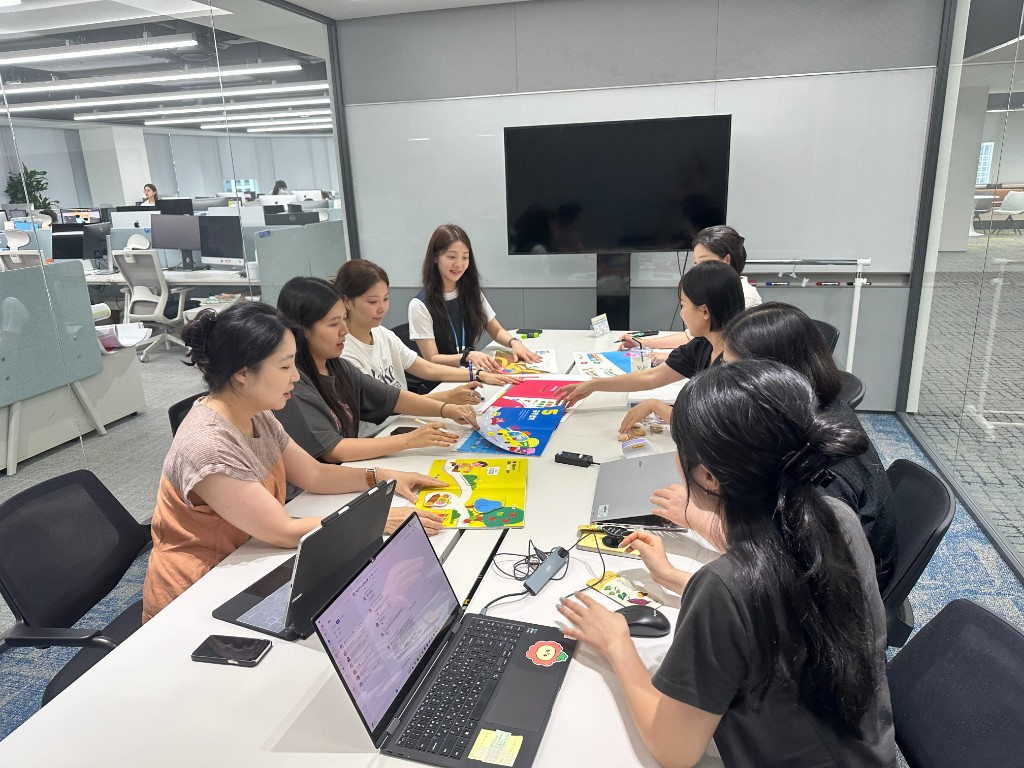
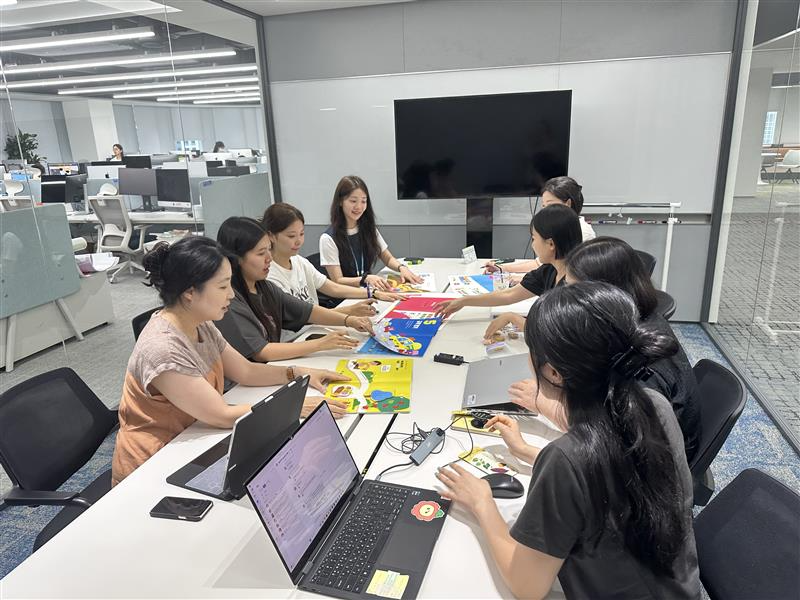
ㅇㅇ

diff --git a/index.html b/index.html
@@ -1487,209 +1487,6 @@
         <p>이번 인터뷰를 함께해주신 유지인 CP님, 정세연 CP님, 그리고 수풀길 팀 모두에게 진심으로 감사드립니다.</p>
     </footer>
 </article>
-
-
-    </div>
-
-    <div class="interview-article-lead interview-article-lead--speakers">
-        <p><span class="interview-qa-speaker">유지인 CP</span> (수풀길 리더, 크리에이티브2 Cell)</p>
-        <p><span class="interview-qa-speaker">정세연 CP</span> (수풀길 PM, 크리에이티브2 Cell)</p>
-    </div>
-
-    <section class="interview-article-section">
-        <h3 class="interview-article-section-title">1. 수풀길 팀의 시작</h3>
-
-        <div class="interview-qa">
-            <p class="interview-qa-q">Q. ‘수풀길’이라는 이름, 그리고 그 안에 담긴 방향성과 기획 의도가 궁금합니다. : )</p>
-            <p class="interview-qa-a"><span class="interview-qa-speaker">지인 CP</span> ‘수를 풀다’라는 의미에서 시작했어요. 동시에 ‘수를 탐험하는 길’이라는 뜻도 담고 있습니다. 기존 수학 모형 교과서를 만드는 게 목적이었는데, 어떻게 하면 딱딱한 수학이라는 과목이 좀 더 흥미로워질 수 있을까를 많이 고민했습니다.</p>
-            <p class="interview-qa-a"><span class="interview-qa-speaker">세연 CP</span> 대상이 초등 1, 2학년이다 보니, 단순한 풀이형 수학이 아니라 놀이 학습으로 다가가고 싶었어요. 그래서 전체를 하나의 동화처럼 구성했어요. 사실 요즘 검정교과서도 스토리텔링 도입은 많이 하지만, 대부분 도입부에서 끝나요. 저희는 한 권 전체가 스토리로 이어지는 구조를 시도했습니다. ☺️</p>
-        </div>
-
-        <div class="interview-qa">
-            <p class="interview-qa-q">Q. 수학 교과서를 동화처럼 구성한다니 정말 인상 깊습니다~! 이런 기획은 어떻게 시작하게 되셨나요?</p>
-            <p class="interview-qa-a"><span class="interview-qa-speaker">세연 CP</span> 처음에는 ‘모형 교과서를 만들라’라는 미션을 받았는데... 이미 모형으로 개발되었던 수학이라니, 부담되더라고요. ㅎㅎ 그래서 처음 통 진행할 때는 ‘그냥 워크북으로 가자’고 했었어요. 그런데 그걸 조금 더 확장하고 싶다는 생각이 들었고, 그렇게 동화 콘셉트가 나오게 됐어요. QR코드를 연결해서 활동이 이어질 수 있도록 구성하기도 했습니다.</p>
-        </div>
-    </section>
-
-    <section class="interview-article-section">
-        <h3 class="interview-article-section-title">2. 어떻게 운영되었나요?</h3>
-
-        <div class="interview-qa">
-            <p class="interview-qa-q">Q. 스터디 준비는 언제부터 시작하셨고, 어떤 계기로, 본격적으로 진행하게 되셨나요?</p>
-            <p class="interview-qa-a"><span class="interview-qa-speaker">지인 CP</span> 첫 학습일지 쓰기 전부터 사실 준비는 하고 있었어요. 본격적으로 시작한 건 공지가 뜨고 나서였어요. 이왕 하는 거면 지원금도 받으면서 제대로보면 좋으니까요. ㅎㅎ</p>
-        </div>
-
-        <div class="interview-qa">
-            <p class="interview-qa-q">Q. 운영하면서 어떤 방식과 역할 분담에 중점을 두셨나요?</p>
-            <p class="interview-qa-a"><span class="interview-qa-speaker">지인 CP</span> 매 통 전에 오늘 뭘 할지, 어떤 업무를 해야 할지 미리 점검하고 세연 시피님이랑 함께 통에 들어갔어요. 기존에는 개발에서 원고를 정리해서 CC(크리에이티브디자인연구소)에 넘기면, CC에서 디자인을 진행하는 방식이었는데, 이번엔 그 역할 구도를 바꿔봤어요. 저희가 먼저 기획하고, 그 기획에 맞는 원고를 고른 뒤 디자인까지 했죠. 그걸 다시 개발팀이 역으로 검수해 주는 구조로요. 다행히 중간 결과물이 괜찮다는 평가를 받아서, 기분 좋았어요. 😀</p>
-            <p class="interview-qa-a"><span class="interview-qa-speaker">세연 CP</span> 저는 전체 운영을 맡았고, 프로젝트 리더의 역할을 하고 있습니다. CC에서는 비바코드를 매번 하다 보니, 늘 ‘이번엔 뭐가 달라야 하지?’라는 부담이 있어요. 연구물도 계속 새로움을 추구하는데, 거기서 또 차별화된 뭔가를 만들어내야 하니까요. 그래서 이번엔 동화 형식으로 제안했지만... 쉽지는 않았어요. 대상 아동이 초등 1~2학년이라 학습 배경이 거의 없거든요. 개발팀도 처음엔 막막해했어요. 이런 형태로 수업이 흘러간 전례가 없어서, 원고를 어떻게 줘야 할지도 모르겠고. 그래서 디자이너들이랑 수없이 검토 통을 했죠. 이번엔 진짜 역대급으로 개발 셀과 소통 많이 했어요. 그 덕분에 디자인이랑 원고 기획까지 CC에서 이례적으로 주관하게 됐고, 영상까지 연계하게 됐어요. 저희 입장에서는 정말 뿌듯한 프로젝트였어요. : )</p>
-        </div>
-
-        <p><em>수풀길 팀의 스터디는 계속됩니다!</em></p>
-    </section>
-
-    <section class="interview-article-section">
-        <h3 class="interview-article-section-title">3. 비바코드를 하며 좋았던 점은?</h3>
-
-        <div class="interview-qa">
-            <p class="interview-qa-q">Q. 말씀을 들으니, 이번 프로젝트가 팀에게도 조직에도 정말 의미 있는 경험이었겠다는 생각이 들어요. 그런 가운데 "아, 이래서 비바코드를 하는구나!" 싶은 순간도 있으셨을까요?</p>
-            <p class="interview-qa-a"><span class="interview-qa-speaker">지인 CP</span> 환경적인 지원이 정말 좋았어요. 책도 구매해서 참고할 수 있었고, AI 프로그램 구독료나 툴 같은 것도 무엇보다 기존에 없던 프로세스를 저희 손으로 새롭게 시작해본 게 큰 경험이었어요. 틀을 깨고, 디자이너가 주도적으로 기획부터 운영까지 해볼 수 있었던 것, 그게 정말 뿌듯했죠. 그리고… 학점 지급도 아주 큰 동기부여였습니다.</p>
-            <p class="interview-qa-a"><span class="interview-qa-speaker">세연 CP</span> 저도 지인 시피님이 말씀하신 거랑 정말 공감해요. ㅎㅎ 우리가 교육회사다 보니, 실무 디자이너로서 할 수 있는 일에 어느 정도 한계가 있었거든요. 특히 교과서는 교육과정에 맞춘 원고가 우선이다 보니, 디자인에서 창의성을 크게 발휘하기 어려운 부분도 있었고요. 근데 이번 비바코드는 좀 달랐어요. 개발이 중심이 아닌, CC에서 기획의 방향을 먼저 제안하고 그걸 기반으로 디자인을 풀어나갈 수 있었던 경험 자체가 새로웠고, 그게 너무 좋았어요. 또 다른 CC 팀들이 만든 결과물들을 보면서도 진심으로 감탄했어요. ‘우리 모두 다 같이 성장하고 있구나…’ 느껴졌어요.</p>
-        </div>
-    </section>
-
-    <section class="interview-article-section">
-        <h3 class="interview-article-section-title">4. 무엇을 배웠나요?</h3>
-
-        <div class="interview-qa">
-            <p class="interview-qa-q">Q. 서로 다른 역할과 시선에서 하나의 결과물을 만들어냈다는 점이 정말 인상 깊네요. 이번 활동을 통해 팀이나 개인에게 어떤 변화가 있었는지도 궁금해요!</p>
-            <p class="interview-qa-a"><span class="interview-qa-speaker">지인 CP</span> 셀을 운영하는 입장에서 팀원들을 지켜보면, 정규 업무를 할 때와 이번 모형 교과서를 개발할 때 모습이 조금 달랐던 것 같아요. 더 능동적으로 의견을 내고, 무엇보다 즐겁게 일하는 느낌이랄까요. 자율적인 분위기 속에서 각자 가진 아이디어를 자연스럽게 나누고, 서로 존중하며 몰입하는 모습이 참 보기 좋았어요. 조직문화가 수평적인 덕분에 가능했던 흐름이라고 생각해요.</p>
-            <p class="interview-qa-a"><span class="interview-qa-speaker">세연 CP</span> 맞아요. 이번이 특히 더 그랬던 것 같아요. 크리에이티브한 아이디어를 계속 내야 하는 프로젝트이다 보니 편하게 대화 나누면서 아이디어가 통통 튀어나왔던 순간들이 많았어요. 특히 저연차 CP님들이 가진 신선하고 유쾌한 발상들이 정말 자극이 많이 되더라고요. 기존의 틀에서 벗어나 다양한 업무를 경험할 수 있었던 것도 큰 변화였고요.</p>
-            <p class="interview-qa-a"><span class="interview-qa-speaker">지인 CP</span> 물론 약간의 부담감도 있었어요. 이번에는 저희가 주도적으로 전체를 설계하고 기획한 구조이다 보니, 함께 협업해 주신 개발 시피님들께 다소 부담이 갔을 수도 있을 것 같아요.</p>
-            <p class="interview-qa-a"><span class="interview-qa-speaker">세연 CP</span> 실제로 개발 시피님들이 정말 고생 많으셨어요. 디자이너가 원고 기획을 하는 구조는 익숙하지 않다 보니, 교육적으로 이 흐름이 맞는지에 대해 계속 피드백을 주셨어요. 그래도 그런 대화 덕분에 더 많이 배울 수 있었던 것 같아요.</p>
-            <p class="interview-qa-a"><span class="interview-qa-speaker">지인 CP</span> 맞아요. 개발자 분들께서 정말 꼼꼼하게 피드백 주셨어요. 저희가 미처 생각하지 못한 부분들을 정확하게 짚어주셔서 그게 또 하나의 배움이 되었습니다. :) 그리고 수풀길 팀의 컨셉에 맞게 미디어 자료도 연계해서 만들었는데, 서책과 미디어의 톤앤매너를 통일하는 작업도 잘 이뤄졌던 것 같아요. 각자의 역할 안에서 정말 열심히 함께 해준 팀워크가 기억에 남습니다.</p>
-        </div>
-    </section>
-
-    <section class="interview-article-section">
-        <h3 class="interview-article-section-title">5. 아쉬운 점</h3>
-
-        <div class="interview-qa">
-            <p class="interview-qa-q">Q. 앞서 말씀해 주신 다양한 성과들이 더 빛나는 이유는, 그만큼 많은 고민과 시도가 있었기 때문이겠죠. 그렇다면 활동하면서 조금 아쉬웠던 점도 있으셨을까요?</p>
-            <p class="interview-qa-a"><span class="interview-qa-speaker">세연 CP</span> 원래는 연말까지 넉넉하게 진행할 수 있어서 기획도 차근차근 하고 실험도 더 해 보려 했는데, 올해는 국정 교과서 작업과 일정이 겹치면서 비바코드 프로젝트도 예상보다 조금 빠듯하게 진행되었어요. 심사 일정도 있다 보니 준비 과정을 서둘러야 했던 점이 살짝 아쉬웠어요.</p>
-            <p class="interview-qa-a"><span class="interview-qa-speaker">지인 CP</span> 작업을 하다 보니 아이디어가 하나둘 더 생기고, “이것도 해 보면 좋겠다!” 싶은 게 많아졌는데 시간 제약 때문에 다 시도해보지 못했던 점이 조금 아쉬워요. 조금만 더 시간이 있었으면 더 다채롭게 펼쳐볼 수 있었을 텐데요.</p>
-        </div>
-    </section>
-
-    <section class="interview-article-section">
-        <h3 class="interview-article-section-title">6. 수풀길 팀만의 특별한 점</h3>
-
-        <div class="interview-qa">
-            <p class="interview-qa-q">Q. 팀원 모두가 몰입하며 만들어낸 결과물이라 더욱 특별하게 느껴지는데요, 수풀길 팀만의 분위기나 협업 방식은 무엇이었을까요?</p>
-            <p class="interview-qa-a"><span class="interview-qa-speaker">세연 CP</span> 이번에는 처음부터 디자이너가 동화 콘셉트를 제안하고, 그 흐름에 맞춰 원고까지 직접 기획해 본, 새로운 방식이었어요. 기존에는 개발팀에서 제공한 원고를 바탕으로 디자인을 했다면, 이번에는 완전히 역으로! 디자이너가 스토리를 먼저 만들고 그에 맞춰 전체를 설계했죠. 자유롭게 의견을 나눌 수 있는 분위기 덕분에 진짜 해보고 싶은 걸 마음껏 시도해 볼 수 있었어요. “이거… 될까?” 싶은 것도, 비바코드에서는 “일단 해보자!”로 바뀌니까요. 원고 기획만 두 달 넘게 매주 만나며 준비했고, 그 이후에는 시안을 다듬기 위해 2주에 한 번씩 계속 만났어요. 이런 과정이 수풀길 팀만의 독특한 협업 흐름이었던 것 같아요.</p>
-            <p class="interview-qa-a"><span class="interview-qa-speaker">지인 CP</span> 그리고 팀원 각자가 가져온 아이디어를 모아 정리하는 과정도 인상 깊었어요. 시장조사도 함께 나갔고, 각자가 생각하는 이상적인 교과서 레퍼런스를 가져왔는데 놀랍게도 공통적인 키워드가 많더라고요. 마음이 잘 맞는 팀이라는 걸 그때 또 느꼈어요. 또 세연 시피님이 큰 그림을 잘 그려주시고, 팀원들의 역할 분담도 적재적소에 잘 맞춰주셔서 프로젝트가 더 빠르고 유연하게 진행될 수 있었던 것 같아요. 덕분에 다른 셀들보다 빠른 시너지를 낼 수 있었고요.</p>
-        </div>
-    </section>
-
-    <section class="interview-article-section">
-        <h3 class="interview-article-section-title">마지막 한마디</h3>
-
-        <div class="interview-qa">
-            <p class="interview-qa-q">Q. 어느덧 마지막 단계네요~ 비바코드 여정을 함께해온 팀원들에게 전하고 싶은 따뜻한 한마디가 있다면요?</p>
-            <p class="interview-qa-a"><span class="interview-qa-speaker">지인 CP</span> 사실… 우승 상금이 있는지도 몰랐는데요...갑자기 큰 욕심이 생기네요! 바쁜 업무 속에서도 이 프로젝트를 이어올 수 있었던 건 팀원들이 열정적으로 함께해줬기 때문이에요. 저는 그저 격려하고 옆에서 힘을 실어주는 역할만 했을 뿐이에요. 마지막 최종 결과물 제출만 남았는데, “우승을 향해! 아자아자 화이팅!”입니다! 💪🏻</p>
-            <p class="interview-qa-a"><span class="interview-qa-speaker">세연 CP</span> 팀원 모두가 비바코드 처음 참여하는 분들이었어요. 리더로서 우승을 원하신다면…저도 끝까지 최선을 다하겠습니다 하하하 : ) 함께 해줘서 정말 고맙고, 덕분에 많이 배웠어요. ⭐</p>
-        </div>
-    </section>
-
-    <footer class="interview-article-footer">
-        <h3 class="interview-article-section-title">✍🏻 비바人터뷰를 마치며…</h3>
-        <p>팀원 한 사람 한 사람의 열정이 곧 ‘수풀길’이라는 이름의 길이 되어 그 위를 함께 걸어온 여정이었습니다. 비바코드를 처음 경험한 팀원들이 대부분이었지만, 누구보다도 창의적인 시도와 유쾌한 협업이 돋보였던 팀.</p>
-        <p>"이게 될까?" 싶은 순간도 많았지만, 비바코드에서는 언제나 "일단 해보자!"가 가능하다는 걸 보여준 수풀길 팀. 다음엔 어떤 실험으로 돌아올지, 벌써 기대되지 않나요? 수풀길 팀의 다음 여정도, 응원합니다! ✨</p>
-        <p>이번 인터뷰를 함께해주신 유지인 CP님, 정세연 CP님, 그리고 수풀길 팀 모두에게 진심으로 감사드립니다.</p>
-    </footer>
-</article>
-
-
-    </div>
-
-    <div class="interview-article-lead interview-article-lead--speakers">
-        <p><span class="interview-qa-speaker">최다솜 CP</span> (사내뮤공업 리더, 통합실용2 Cell) — “안녕하세요, 다방면에 관심이 많은 취미 부자 최다솜입니다!” 🥳</p>
-        <p><span class="interview-qa-speaker">김현진 CP</span> (사내뮤공업 총무, 통합실용2 Cell) — “안녕하세요, 통합실용교과서 Core 마당발 김현진입니다!” ☺️</p>
-    </div>
-
-    <section class="interview-article-section">
-        <h3 class="interview-article-section-title">1. 사내뮤공업 팀의 시작</h3>
-
-        <div class="interview-qa">
-            <p class="interview-qa-q">Q. 팀 이름이 너무 독특해요! ‘사내뮤공업’이라는 이름, 어떻게 탄생하게 되었나요?</p>
-            <p class="interview-qa-a"><span class="interview-qa-speaker">다솜 CP</span> 비바샘에 올릴 콘텐츠를 기획부터 촬영, 편집, 결과물까지 전부 직접 만들다 보니, 문득 이런 생각이 들었어요. “이건 가내수공업인데… 우리가 사내에 있으니까 사.내.수.공.업?” 게다가 콘텐츠 주제가 음악이었고, 저희가 음악 전공자들로 구성된 음악교과서 Cell이다 보니, 자연스럽게 ‘사내뮤공업’이라는 팀명이 탄생했습니다.</p>
-        </div>
-
-        <div class="interview-qa">
-            <p class="interview-qa-q">Q. 사내뮤공업은 어떻게 시작하게 되었나요?</p>
-            <p class="interview-qa-a"><span class="interview-qa-speaker">현진 CP</span> 사실 영상 제작은 취미로도 한 적이 없던 멤버들이 대부분이에요. 그래서 이번엔 ‘우리 음악 콘텐츠를 직접 한 번 만들어보자!’는 마음으로 도전했어요. 협업도 물론 중요하지만, 이번만큼은 Cell 안에서 시작부터 끝까지 주도적으로 해보자는 의지도 있었고요.</p>
-            <p class="interview-qa-a"><span class="interview-qa-speaker">다솜 CP</span> 또 하나 중요한 이유는... 편집 프로그램 구독료를 지원받을 수 있어서요. ㅎㅎㅎ</p>
-        </div>
-    </section>
-
-    <section class="interview-article-section">
-        <h3 class="interview-article-section-title">2. 음악 전공자 6인의 협업, 어떤 모습이었을까요?</h3>
-
-        <div class="interview-qa">
-            <p class="interview-qa-q">Q. 통합실용2 Cell은 시피님들 모두 성향도 다양하고 개성도 뚜렷할 것 같은데요! 실제로 협업할 땐 어떤 팀 분위기가 느껴졌는지, 서로 어떤 시너지를 내셨는지도 궁금해요.</p>
-            <p class="interview-qa-a"><span class="interview-qa-speaker">다솜 CP</span> 저희는 6월부터 본격적으로 매주 만나며 스터디를 진행했어요. 사실 5월부터 비바코드 해보자는 이야기가 오가긴 했는데, 초반에는 방향을 잡는 시간이었고요. Cell 자체가 거의 같은 팀이다 보니, 자연스럽게 매주 꾸준히 모이며 협업할 수 있었어요.</p>
-            <p class="interview-qa-a">저희는 음악 교과서 개발과 비바샘 콘텐츠 개발을 함께하고 있었는데요, 특히 비상 음악교과서가 올해 초중고 모두 채택률이 상승하면서 디지털 교수자료에 대한 유입도 많아졌어요. 교사분들이 요구하시는 자료도 많아졌고요. 교과서 하나만 믿고 비상을 선택해준 경우도 많기에, 콘텐츠의 질을 높이기 위한 고민이 많았어요. 디지털 업무 전체를 저희 Cell이 처음으로 이관받기도 했고, 그래서 타사 분석부터, 콘텐츠 퀄리티까지 신경 써서 비바코드 활동을 더 적극적으로 하고 싶었어요.</p>
-            <p class="interview-qa-a"><span class="interview-qa-speaker">현진 CP</span> 맞아요. 말씀드린 것처럼 저희 Cell 모두가 음악 전공자입니다. 작곡, 이론, 연주 전공까지 다양하게 모여 있고, 국악과 서양음악 전공자도 함께 있거든요. 다들 음악은 물론이고 업무적으로도 일잘러라서 팀워크가 참 좋아요. 또 통합실용 Core 자체가 예체능 전공자들이 많아서 그런지, 의견도 자유롭고 분위기가 굉장히 수평적이에요. 서로 전공 얘기를 할 때마다 재미도 있고, 아이디어가 막 튀어나오니까 진짜 창의적인 분위기예요.</p>
-        </div>
-    </section>
-
-    <section class="interview-article-section">
-        <h3 class="interview-article-section-title">3. 비바코드를 하며 좋았던 점은?</h3>
-
-        <div class="interview-qa">
-            <p class="interview-qa-q">Q. 활동하면서 ‘비바코드 하길 정말 잘했다!’ 싶은 순간이 있었을까요? 직접적인 업무에 어떤 도움이 되었는지, 또는 새롭게 배운 것이 있다면 소개해 주세요!</p>
-            <p class="interview-qa-a"><span class="interview-qa-speaker">다솜 CP</span> 사실 이 프로젝트, 비바코드 아니었으면 시작조차 못 했을 거예요. 업무에 꼭 필요한 결과물이었지만, 막상 저희끼리보려면 엄두가 안 났을 것 같거든요. 그런데 비바코드 덕분에 다양한 지원도 받을 수 있었고, 도전할 수 있는 용기도 생겼어요.</p>
-            <p class="interview-qa-a">처음엔 모르는 것도 많아서 미디어콘텐츠 Core 시피님들께 직접 자문도 구하고, 효과음이나 성우 음원도 찾아 쓰고, 영상 편집 기술도 공부하면서 하나하나 시도해 봤어요. 샘플 만들어와서 같이 리뷰하면서 퀄리티를 점점 높였죠. 그러다 보니 “오오… 우리 이 정도까지 해냈어?” 싶을 정도로, 꽤 발전되어 가는 것이 눈에 보이더라구요!</p>
-            <p class="interview-qa-a"><span class="interview-qa-speaker">현진 CP</span> 맞아요. 정말 배우면서 해낸 프로젝트였어요. 조금씩 하다 보니 “아, 이건 이렇게 고치면 더 좋아지겠다” 싶은 게 생기고, 그걸 적용하면서 점점 결과물이 발전해가는 게 눈에 보여서… 그게 정말 뿌듯했어요.</p>
-        </div>
-
-        <div class="interview-qa">
-            <p class="interview-qa-q">Q. 혹시 AI 도구도 활용해 보셨나요?</p>
-            <p class="interview-qa-a"><span class="interview-qa-speaker">다솜 CP</span> 완전요! 영상 편집 전 단계에서는 ‘미리캔버스’를 많이 썼어요. 디자인도 거의 다 이걸로 잡았고, AI 기능이 은근히 많아서 활용도가 높았어요.</p>
-            <p class="interview-qa-a"><span class="interview-qa-speaker">현진 CP</span> 그리고 성우 목소리도 AI 성우를 사용했어요. 덕분에 퀄리티도 높이고, 시간도 절약할 수 있었습니다. : )</p>
-        </div>
-    </section>
-
-    <section class="interview-article-section">
-        <h3 class="interview-article-section-title">4. 직접 콘텐츠를 만들면서 느낀 변화가 있다면요?</h3>
-
-        <div class="interview-qa">
-            <p class="interview-qa-q">Q. 사내뮤공업팀은 콘텐츠를 직접 제작해 보고 계시잖아요! 그 과정에서 ‘아, 이게 진짜 콘텐츠 만드는 거구나…!’ 하며 느낀 변화나 배움이 있었을까요?</p>
-            <p class="interview-qa-a"><span class="interview-qa-speaker">현진 CP</span> 저는 개인적으로 동료들과 더 돈독해졌다는 점이 가장 커요. Cell 여섯 명 모두 음악 전공자지만, 세부 업무는 조금씩 다르거든요. 그런데 이번 활동을 계기로 한 팀으로 하나의 결과물을 만들고, 함께 피드백을 주고받으며 협업하는 시간이 많아졌어요. 같은 Cell 안에서도 이렇게 긴밀하게 같이 해본 적은 흔치 않았는데, 그게 참 좋았어요.</p>
-            <p class="interview-qa-a"><span class="interview-qa-speaker">다솜 CP</span> 예전에는 저희가 '출판 컴퍼니'였어요. 말 그대로 서책 중심이었죠. 그런데 작년에 ‘콘텐츠 컴퍼니’로 이름이 바뀌면서, 단순히 책을 넘어서 디지털 콘텐츠까지 제작하는 쪽으로 업무의 범위가 넓어졌어요. 사실 처음엔 ‘콘텐츠 제작도 우리가 해야 한다’는 말이 막연하고 어렵게 느껴졌는데, 이번 활동을 직접보면서 실감했어요.</p>
-            <p class="interview-qa-a">"아, 나도 비로소 콘텐츠 제작자구나!"라는 것이 실감 나더라고요. 영상 편집 툴(캡컷) 같은 것도 전혀 몰랐는데, 이번에 하나하나 배워가며 작업하면서 정말 몰입도 높고 생산적인 시간이었어요. 예전에는 업무가 ‘교과서 담당’과 ‘미디어 콘텐츠 담당’이 나뉘어 있었다면, 지금은 두 영역을 동시에 다룰 수 있게 된 거죠. 스스로에게 성장했다는 확신이 드는 순간이었어요.♥️</p>
-        </div>
-    </section>
-
-    <section class="interview-article-section">
-        <h3 class="interview-article-section-title">5. 사내뮤공업 팀만의 특별한 점</h3>
-
-        <div class="interview-qa">
-            <p class="interview-qa-q">Q. 팀마다 협업 방식이 다 다르잖아요. 사내뮤공업만의 특별한 학습 분위기나 작업 방식이 있다면 소개해 주세요!</p>
-            <p class="interview-qa-a"><span class="interview-qa-speaker">다솜 CP</span> 초반에는 각자 잘할 수 있는 영역을 나눠서 맡았죠. 예를 들면 악보 제작은 누구, 영상 편집은 누구 이런 식으로요. 그런데 시간이 지나면서 점점 한 명 한 명이 멀티 플레이어가 되어가는 방식으로 바뀌었어요. 이제는 다 같이 편집 툴도 익히고, 촬영도 해보고, 콘텐츠에 대한 의견도 자연스럽게 나누게 되더라고요. 결과물을 잘 만드는 것도 중요하지만, 각자의 스킬이 확장되는 과정이 정말 의미 있었어요.</p>
-            <p class="interview-qa-a"><span class="interview-qa-speaker">현진 CP</span> 저희가 만드는 영상 중에는 직접 악기를 연주하는 장면도 있어요. 리코더 연주 영상이 콘텐츠에 있는데, 단순히 배경음악을 넣는 게 아니라 저희가 직접 연주하는 모습을 촬영했습니다. 하하하</p>
-            <p class="interview-qa-a">진짜 교사들이 수업에서 활용할 수 있는 실용적인 자료를 만들고 있다는 점에서 뿌듯함이 커요.♥️</p>
-        </div>
-
-        <figure class="interview-article-figure interview-article-figure--inline">
-            <img src="./assets/interview-vol2-study.png" alt="사내뮤공업 팀 리코더 연주 촬영 현장 — 악보를 보며 직접 연주하는 모습" loading="lazy" />
-            <figcaption>직접 연주해 촬영한 리코더 영상 — 가내수공업이 아닌, 진심을 담은 콘텐츠 제작</figcaption>
-        </figure>
-
-        <div class="interview-qa">
-            <p class="interview-qa-a"><span class="interview-qa-speaker">다솜 CP</span> 이 콘텐츠는 비바샘에도 정식으로 올라갈 예정이에요! 11월 말까지 샘플을 제출하고, 내년 1월에 최종 결과물을 완성하여 비바샘에 탑재하는 게 목표입니다. : )</p>
-        </div>
-    </section>
-
-    <section class="interview-article-section">
-        <h3 class="interview-article-section-title">마지막 한마디</h3>
-
-        <div class="interview-qa">
-            <p class="interview-qa-q">Q. 어느덧 마지막 단계네요~ 비바코드 여정을 함께해온 팀원들에게 전하고 싶은 따뜻한 한마디가 있다면요?</p>
-            <p class="interview-qa-a"><span class="interview-qa-speaker">다솜 CP</span> 비상이 제 첫 직장이라 다른 회사는 잘 모르지만, 비상이 직원 교육에 진심인 회사라는 건 정말 확실히 느껴요. 비바코드 같은 것도 ‘꼭 지원해 보라’며 계속 기회를 주고, 이런 시스템이 있다는 것 자체가 정말 감사한 일이에요. 3년 동안 교과서 개발 시즌이 겹쳐 정신없이 바쁘기만 했는데, 이번에 오랜만에 공식적인 지원을 받으면서 활동할 수 있어서 정말 기뻤고, ‘이래서 비바코드를 하는 거구나’ 싶은 순간들이 많았어요.</p>
-            <p class="interview-qa-a">업무가 조금 덜 몰릴 시기에는, 더 많은 시피님들이 이런 기회를 적극 활용했으면 좋겠어요. 진짜,보면 생각보다 훨씬 얻는 게 많아요. 저희처럼요. : )</p>
-            <p class="interview-qa-a"><span class="interview-qa-speaker">현진 CP</span> 비바코드를 하면서 저는 정말 많은 걸 배우고 있어요. 혼자였다면 시도조차 못 했을 영상 편집이나 콘텐츠 제작도, 팀원들과 함께니까 도전할 수 있었고, 조금씩 해내고 있다는 게 느껴져서 뿌듯합니다. 사실 저는 사진 한 장 찍는 것도 낯설어하는 편인데, 이제는 "우리 Cell이 직접 만든 결과물이 시각적으로 구현될 수 있구나!" 하는 감동도 느껴요. 무엇보다도 함께하는 Cell 시피님들이 있어서 가능했던 일들이라, 정말 고맙다는 말 전하고 싶어요 ♥️</p>
-        </div>
-    </section>
-
-    <footer class="interview-article-footer">
-        <h3 class="interview-article-section-title">🎶 비바코드를 마치며</h3>
-        <p>가내수공업? 아니죠, 진심을 담은 ‘사내뮤공업’이었습니다. 다음에도 또 다른 셀프 챌린지가 이어지길 기대하며, 오늘도 멋진 협업에 박수를 보냅니다! 👏🏻</p>
-        <p>이번 인터뷰를 함께해주신 최다솜 CP님, 김현진 CP님, 그리고 사내뮤공업 팀 모두에게 진심으로 감사드립니다.</p>
-    </footer>
-</article>
-
-
     </div>
 
     <!-- 인터뷰 vol.3 본문 (모달에 주입) -->
@@ -1882,7 +1679,7 @@
         </div>
 
         <figure class="interview-article-figure interview-article-figure--inline">
-            <img src="./assets/interview-vol2-study.png" alt="사내뮤공업 팀 리코더 연주 촬영 현장 — 악보를 보며 직접 연주하는 모습" loading="lazy" />
+            <img src="./assets/interview-vol3-mugong-study.png" alt="사내뮤공업 팀 리코더 연주 촬영 현장 — 악보를 보며 직접 연주하는 모습" loading="lazy" />
             <figcaption>직접 연주해 촬영한 리코더 영상 — 가내수공업이 아닌, 진심을 담은 콘텐츠 제작</figcaption>
         </figure>
 